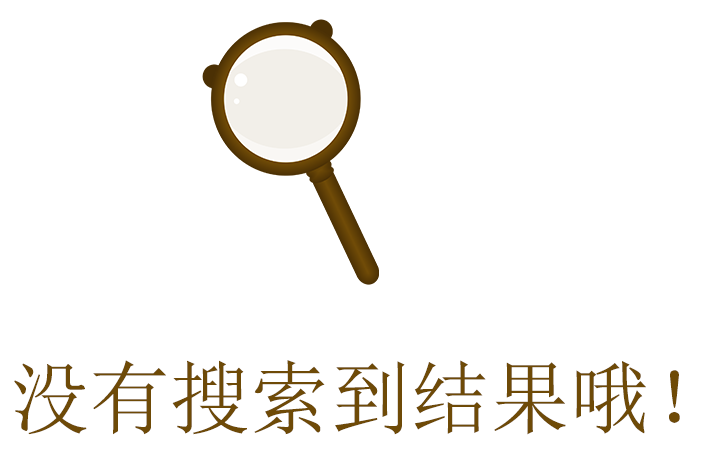
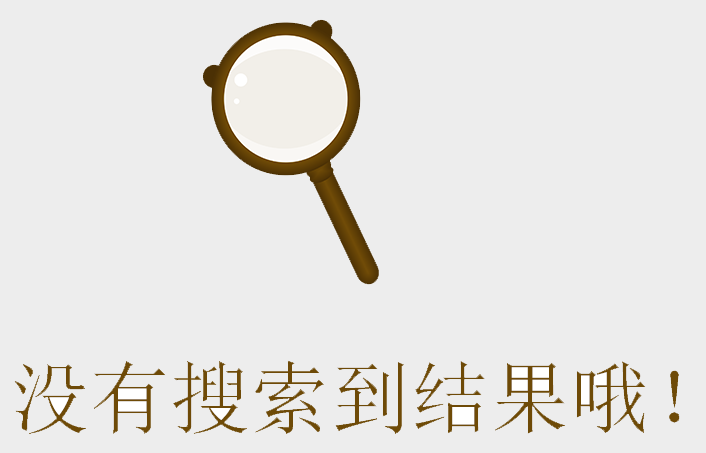
完善搜索功能

diff --git a/src/common/searchgoods.vue b/src/common/searchgoods.vue
@@ -1,6 +1,6 @@
 <template>
   <div style="background: #EDEDED">
-    <div class="main">
+    <div class="main" v-if="goodsList.length !=0">
       <div class="nav">
         <div>
           <a href="#" class="active">综合排序</a>
@@ -16,14 +16,14 @@
       </div>
 
       <div class="goods">
-        <div class="col" v-for="(item,index) in goodsList" :key="index">
-          <router-link :to="{path:'/detail',query:{id:item.id}}">
-            <img :src="item.images[0].image" v-if="item.images !== undefined &&  item.images.length > 0 ">
-            <p class="name">{{item.name}}</p>
-            <p class="price"> ￥ <strong  v-if="item.specification !== undefined &&  item.specification.length > 0 ">{{item.specification[0].shop_price}}</strong></p>
-            <a class="cartBtn"></a>
-           </router-link>
-        </div>
+           <div class="col" v-for="(item,index) in goodsList" :key="index">
+             <router-link :to="{path:'/detail',query:{id:item.id}}">
+               <img :src="item.images[0].image" v-if="item.images !== undefined &&  item.images.length > 0 ">
+               <p class="name">{{item.name}}</p>
+               <p class="price"> ￥ <strong  v-if="item.specification !== undefined &&  item.specification.length > 0 ">{{item.specification[0].shop_price}}</strong></p>
+               <a class="cartBtn"></a>
+             </router-link>
+         </div>
       </div>
 
       <div class="page">
@@ -37,6 +37,9 @@
       </div>
     </div>
 
+    <div v-else style="text-align: center;">
+      <img src="@/assets/img/nosearch.png">
+    </div>
   </div>
 </template>
 
@@ -52,36 +55,36 @@
         total:1,
         page:1,
         goodsList: [
-          {
-            img: require('@/assets/img/food/好丽友薯片.jpg'),
-            name: '好丽友薯片',
-            price: 16
-          },
-          {
-            img: require('@/assets/img/food/奥利奥冰淇淋味夹心饼干22.8.jpg'),
-            name: '奥利奥冰淇淋味夹心饼干',
-            price: 22.8
-          },
-          {
-            img: require('@/assets/img/food/奥利奥蓝莓味夹心饼干.jpg'),
-            name: '奥利奥蓝莓味夹心饼干',
-            price: 26
-          },
-          {
-            img: require('@/assets/img/food/稻香村糕点礼盒53.jpg'),
-            name: '稻香村糕点礼盒',
-            price: 22.8
-          },
-          {
-            img: require('@/assets/img/food/费列罗巧克力81.5.jpg'),
-            name: '费列罗巧克力',
-            price: 81.5
-          },
-          {
-            img: require('@/assets/img/food/达利园糕点34.2.jpg'),
-            name: '达利园糕点',
-            price: 34.2
-          }
+          // {
+          //   img: require('@/assets/img/food/好丽友薯片.jpg'),
+          //   name: '好丽友薯片',
+          //   price: 16
+          // },
+          // {
+          //   img: require('@/assets/img/food/奥利奥冰淇淋味夹心饼干22.8.jpg'),
+          //   name: '奥利奥冰淇淋味夹心饼干',
+          //   price: 22.8
+          // },
+          // {
+          //   img: require('@/assets/img/food/奥利奥蓝莓味夹心饼干.jpg'),
+          //   name: '奥利奥蓝莓味夹心饼干',
+          //   price: 26
+          // },
+          // {
+          //   img: require('@/assets/img/food/稻香村糕点礼盒53.jpg'),
+          //   name: '稻香村糕点礼盒',
+          //   price: 22.8
+          // },
+          // {
+          //   img: require('@/assets/img/food/费列罗巧克力81.5.jpg'),
+          //   name: '费列罗巧克力',
+          //   price: 81.5
+          // },
+          // {
+          //   img: require('@/assets/img/food/达利园糕点34.2.jpg'),
+          //   name: '达利园糕点',
+          //   price: 34.2
+          // }
         ]
       }
     },

diff --git a/src/views/cart.vue b/src/views/cart.vue
@@ -3,7 +3,6 @@
       <my-header></my-header>
       <div class="cart">
         <div class="row">
-          <crumbs></crumbs>
           <div class="cartHead">
             <div class="checkbox">
               <input type="checkbox">
@@ -96,11 +95,9 @@
 <script>
   import  MyHeader from "../common/header/MyHeader";
   import MyFooter from "../common/footer/MyFooter";
-  import Crumbs from "../common/crumbs";
     export default {
         name: "cart",
       components:{
-        Crumbs,
           MyHeader,
           MyFooter
       },

diff --git a/src/views/User/Address.vue b/src/views/User/Address.vue
@@ -43,7 +43,7 @@
                             </tbody>
                         </table>
                       <div v-if="information.length == 0 ||information ==null" class="none">
-                        <img src="@/assets/img/nosearch.png">
+                        <img src="@/assets/img/none.png">
                       </div>
                     </div>
                 </div>
